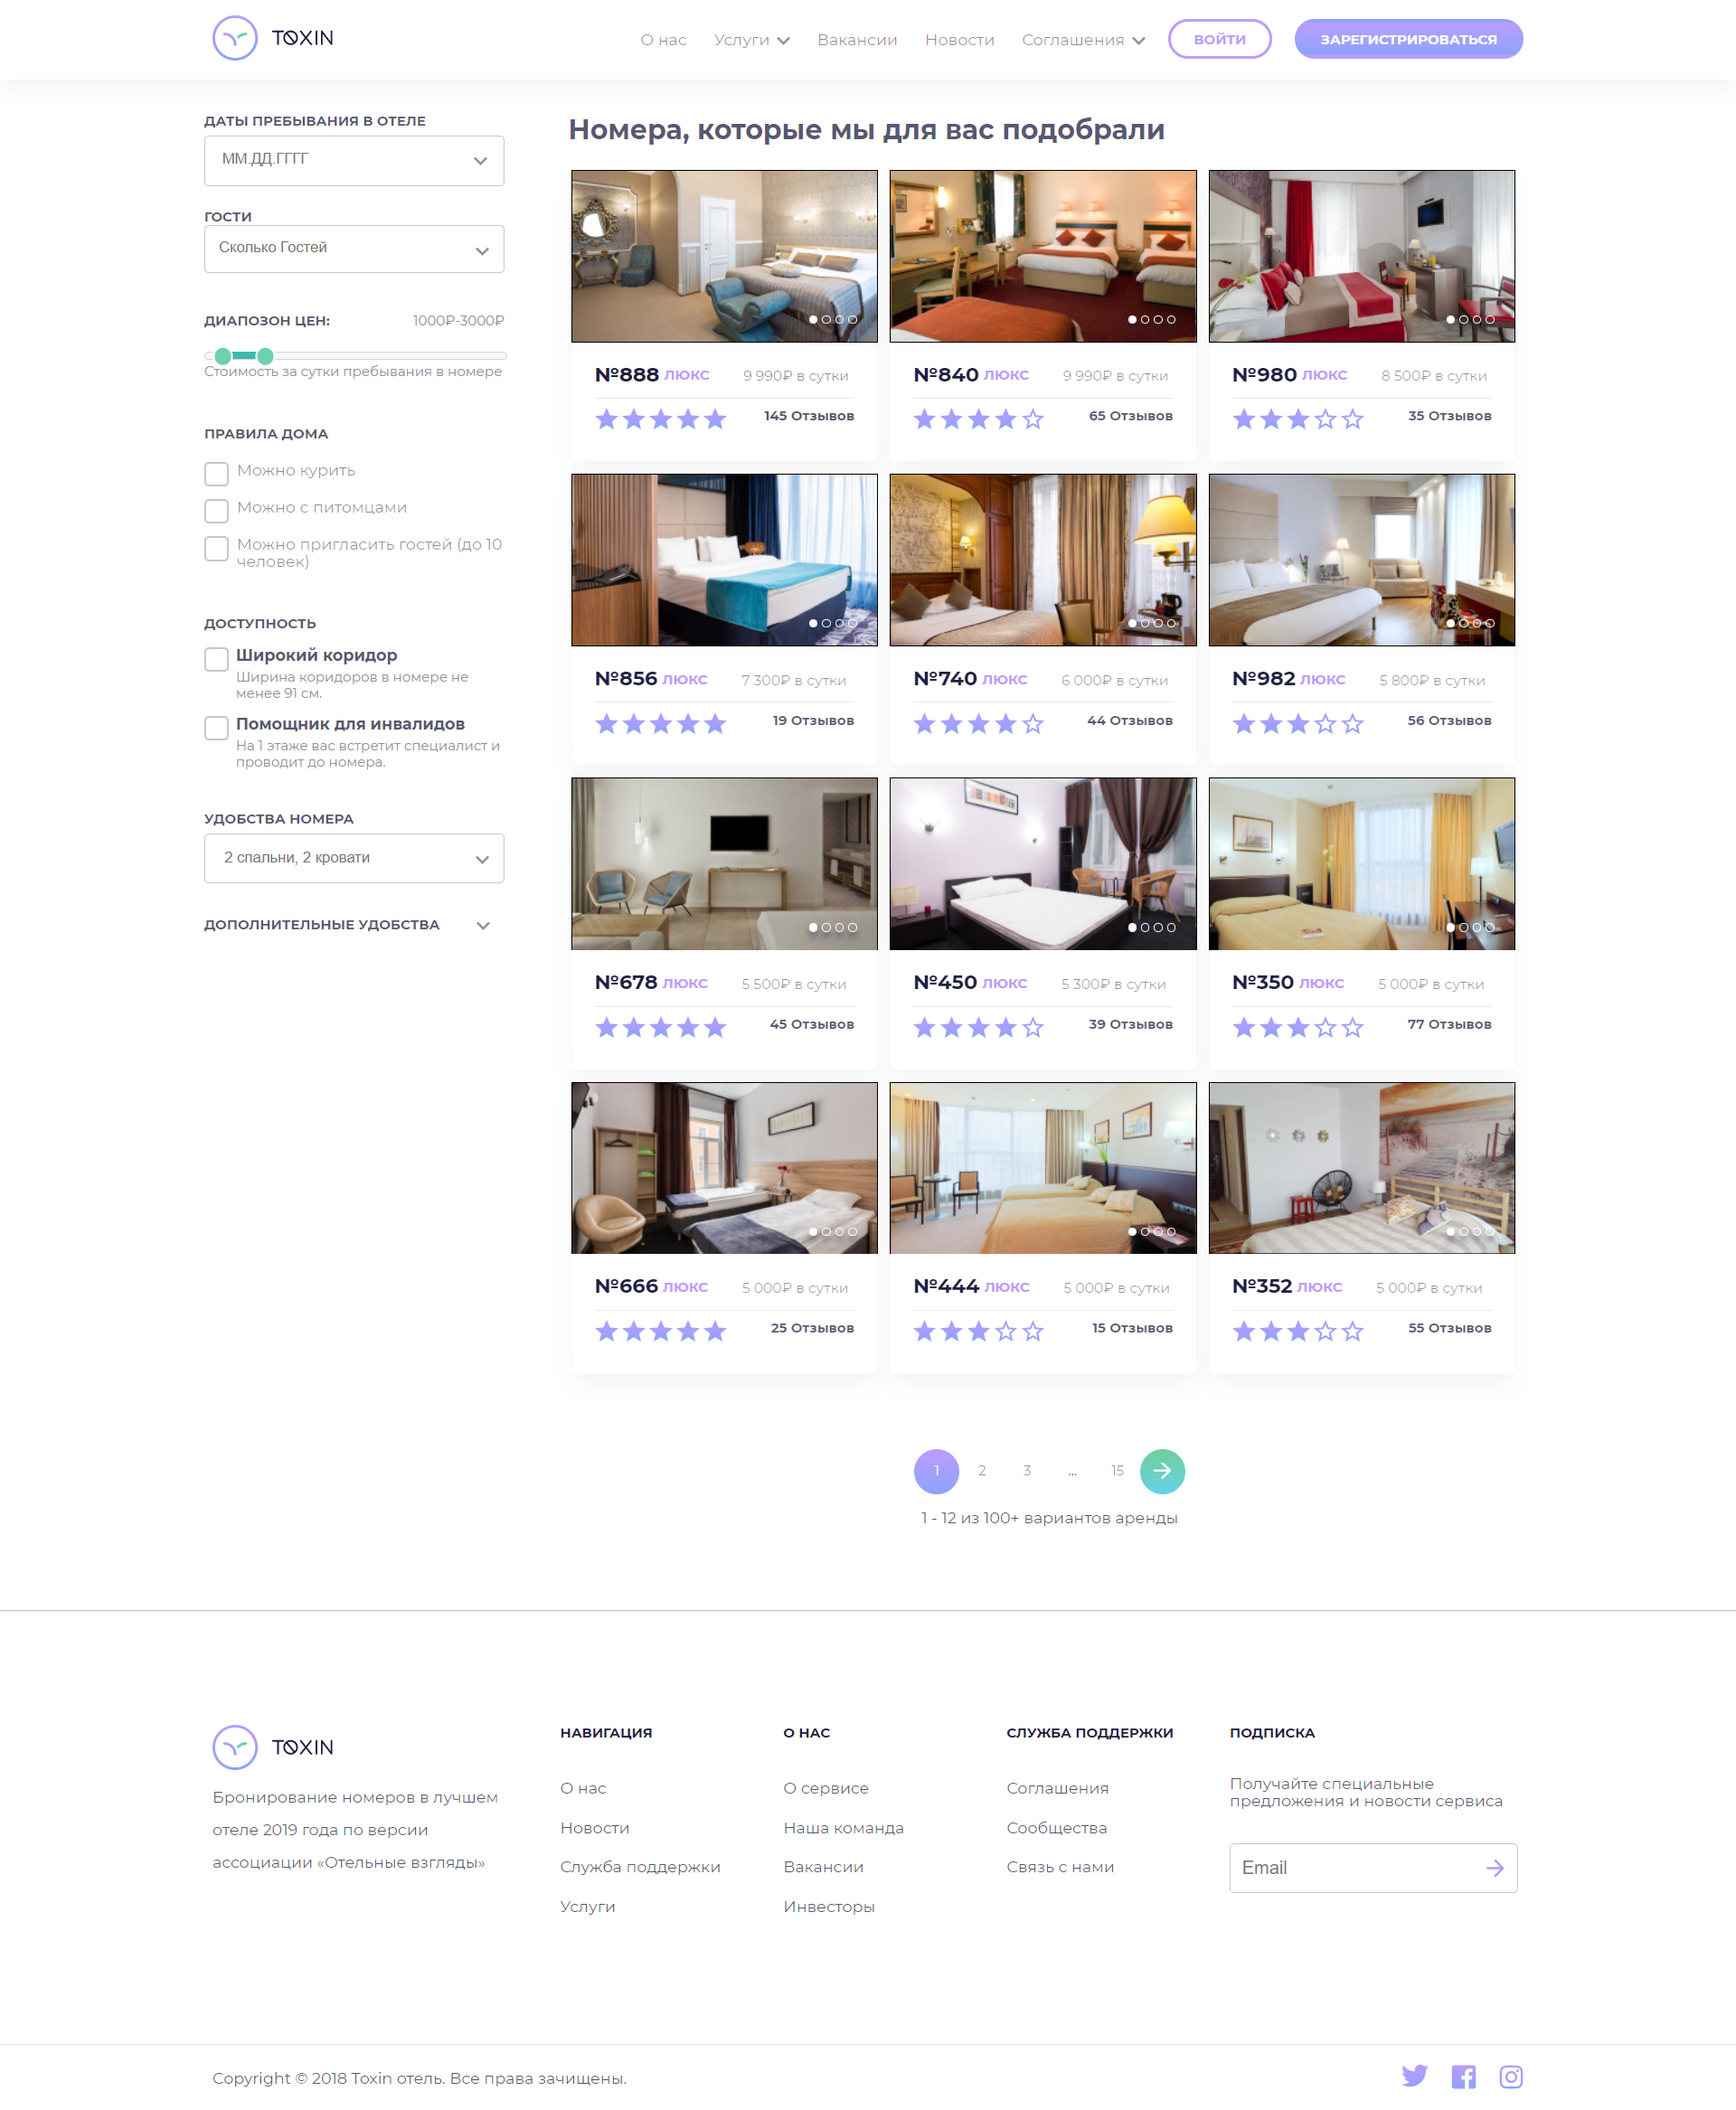
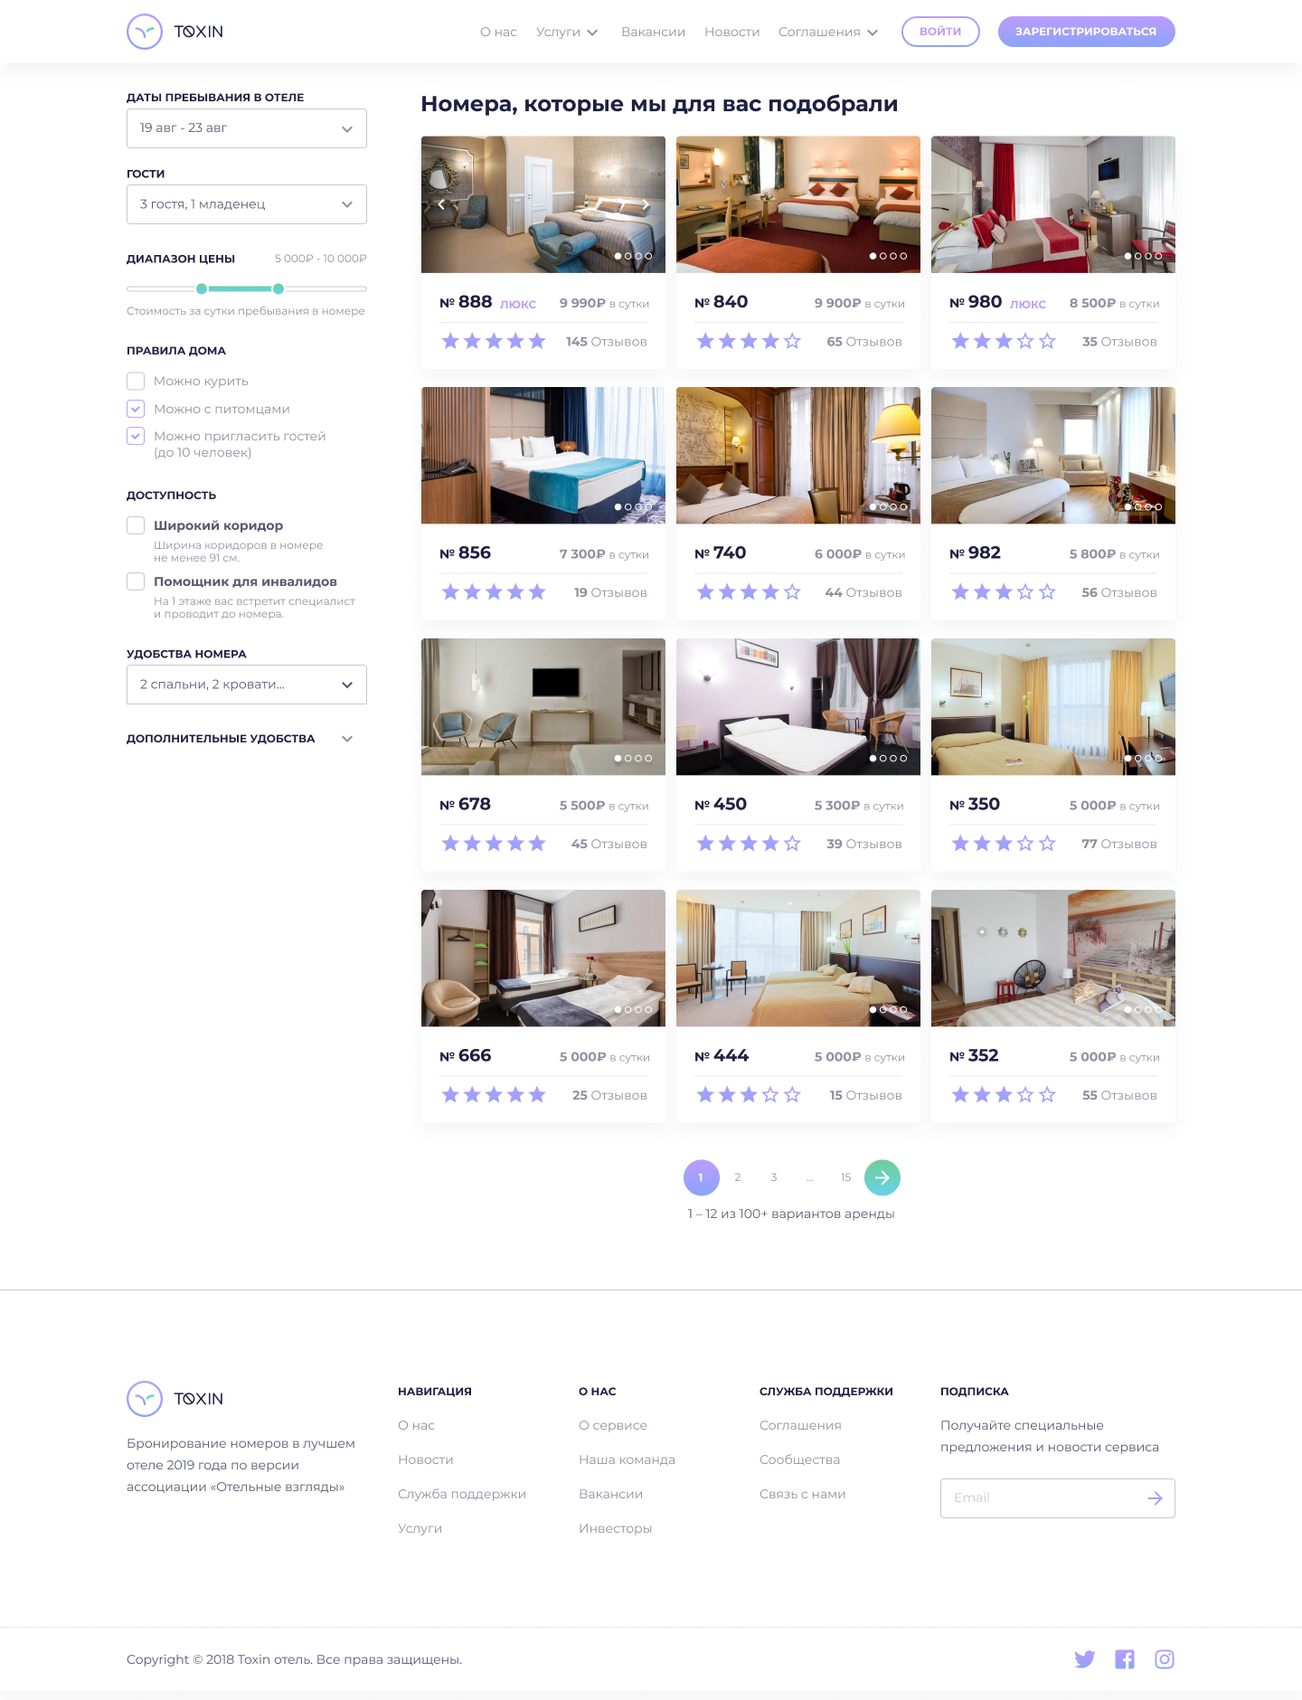
Correct footer for PP

diff --git a/src/blocks/footer/footer.scss b/src/blocks/footer/footer.scss
@@ -1,11 +1,44 @@
 @import '@variables';
 
 .footer {
-	max-width: 1160px;
-	margin: 0 auto;
-	box-shadow: 0px 1px 0px rgba(31, 32, 65, 0.1);
-	background: #FFFFFF;
-	user-select: none;
+	&__container {
+		max-width: 1160px;
+		margin: 0 auto;
+		box-shadow: 0px 1px 0px rgba(31, 32, 65, 0.1);
+		background: #FFFFFF;
+		user-select: none;
+	}
+
+	&__list {
+		display:flex;
+		justify-content: space-between;
+		line-height:15px;
+		padding: 100px 0 85px 0;
+		margin: 0 auto;
+
+		& li {
+			width: 150px;
+			margin-top:23px;
+			text-align:left;
+			white-space: nowrap;
+
+			& a:hover {
+				font-weight: bold;
+				color: $color-shade-secondary;
+			}
+
+			&:first-child {
+				margin-top: 15px;
+			}
+		}
+
+		& ul {
+			list-style:none;
+			display:flex;
+			flex-direction:column;
+			padding:0;
+		}
+	}
 
 	&__navigation {
 		width: 100%;
@@ -110,48 +143,6 @@
 	
 }
 
-.footer_container {
-	width: 100%;
-	border-top: 1px solid rgba(31,32,65,0.25);
-	background-color: #FFFFFF;
-}
-
-.footer .footer_list {
-	display:flex;
-	justify-content: space-between;
-	line-height:15px;
-	padding: 100px 0 90px 0;
-	margin: 0 auto;
-}
-
-.footer .footer_list li {
-	width: 150px;
-	margin-top:23px;
-	text-align:left;
-	white-space: nowrap;
-}
-
-.footer_list li:first-child {
-	margin-top: 15px;
-}
-
-.footer .footer_list li a:hover {
-	font-weight: bold;
-	color: $color-shade-secondary;
-}
-
-.footer .footer_list ul {
-	list-style:none;
-	display:flex;
-	flex-direction:column;
-	padding:0;
-}
-
-.footer .footer_list h3 {
-	text-transform:uppercase;
-	font-weight:bold;
-}
-
 .footer-mobile {
 	width: 560px;
 	height: 127px;
@@ -160,21 +151,25 @@
 	margin: 0 auto;
 	padding: 120px 104px;
 	text-align: center;
-}
 
-.footer-mobile .logo{
-	margin: 0 auto;
-	width: auto;
-}
+	& .logo{
+		margin: 0 auto;
+		width: auto;
+	}
 
-.footer-mobile p {
-	margin: 20px auto 0 auto;
+	& p {
+		margin: 20px auto 0 auto;
+	}
 }
 
 @media all and (max-width:1200px ) {
     .footer {
-		justify-content: center;
-		align-items: center;
+		padding: 100px 0 0 0;
+
+		&__container {
+			justify-content: center;
+			align-items: center;
+		}
 
 		&__sub-icons {
 			display: flex;
@@ -198,16 +193,13 @@
 			display: none;
 		}
 
-		& .footer_list {
+		& .footer__list {
 			justify-content: space-between;
 			padding: 0 15px;
 		}
 
-		& .footer_list div {
+		& .footer__list div {
 			margin-top: 30px;
-		}
-		&_container {
-			padding: 100px 0 0 0;
 		}
 	}
 	
@@ -215,7 +207,11 @@
 
 @media all and (max-width:768px) {
 	.footer {
-		display: flex;
+		padding: 100px 0 100px 0;
+
+		&__container {
+			display: flex;
+		}
 
 		&__description {
 			display: none;
@@ -238,9 +234,6 @@
 				margin-bottom: 25px;
 				text-align: center;
 			}
-		}
-		&_container {
-			padding: 100px 0 100px 0;
 		}
 	}
 }

diff --git a/src/pages/style.scss b/src/pages/style.scss
@@ -18,8 +18,8 @@
 		width: 297px;
 		text-align: right;
 		position: absolute;
-		bottom: 0;
-		right: 5px;
+		bottom: 8px;
+		right: 1px;
 	}
 
 	&__filter-item {
